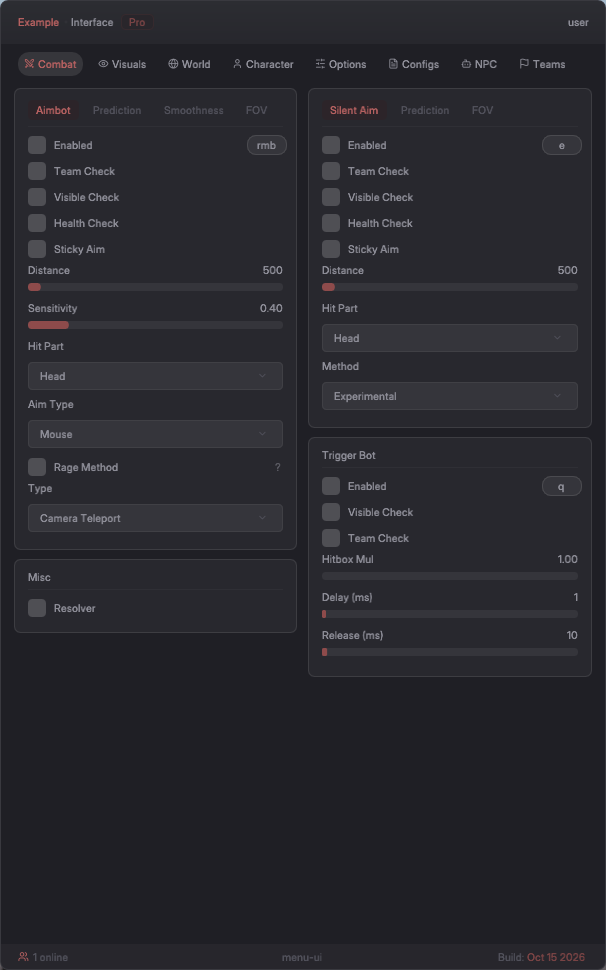
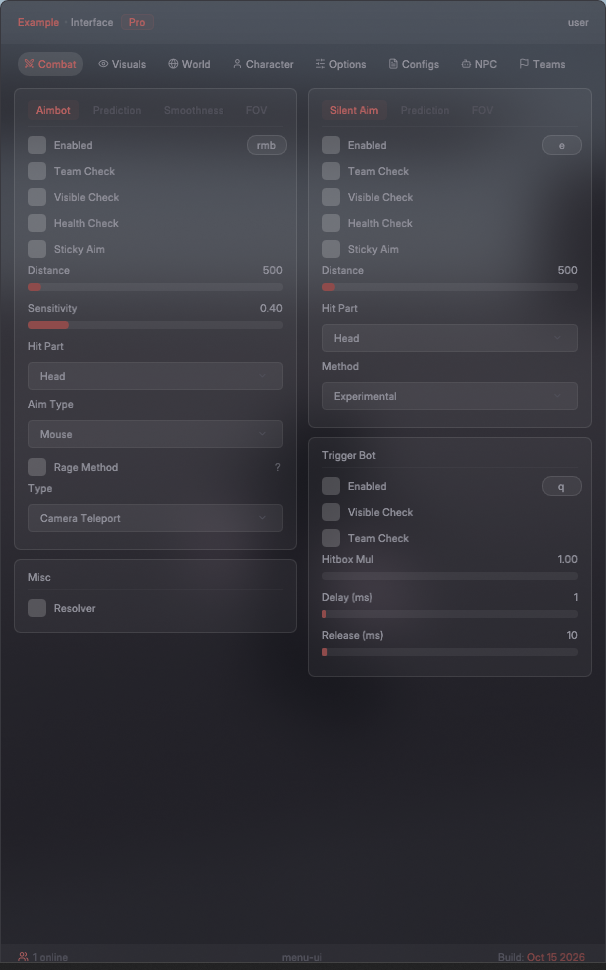
Add glass background

Changed region(s): [[0.0, 0.0, 1.0, 0.3402], [0.0, 0.9897, 1.0, 1.0]]

diff --git a/src/main.cpp b/src/main.cpp
@@ -29,13 +29,13 @@ namespace
     bool create_device(HWND hwnd)
     {
         DXGI_SWAP_CHAIN_DESC desc{};
-        desc.BufferCount = 2;
+        desc.BufferCount = 1;
         desc.BufferDesc.Format = DXGI_FORMAT_R8G8B8A8_UNORM;
         desc.BufferUsage = DXGI_USAGE_RENDER_TARGET_OUTPUT;
         desc.OutputWindow = hwnd;
         desc.SampleDesc.Count = 1;
         desc.Windowed = TRUE;
-        desc.SwapEffect = DXGI_SWAP_EFFECT_FLIP_DISCARD;
+        desc.SwapEffect = DXGI_SWAP_EFFECT_DISCARD;
 
         constexpr D3D_DRIVER_TYPE drivers[] = { D3D_DRIVER_TYPE_HARDWARE, D3D_DRIVER_TYPE_WARP };
         for (auto driver : drivers)
@@ -48,6 +48,40 @@ namespace
             }
         }
         return false;
+    }
+
+    void enable_blur(HWND hwnd)
+    {
+        struct accent_policy
+        {
+            int state;
+            int flags;
+            COLORREF color;
+            int animation;
+        };
+
+        struct composition_data
+        {
+            int attribute;
+            void* data;
+            SIZE_T size;
+        };
+
+        constexpr int blur_behind = 3;
+        constexpr int accent_attribute = 19;
+
+        using set_composition_fn = BOOL(WINAPI*)(HWND, const composition_data*);
+        auto set_composition = reinterpret_cast<set_composition_fn>(
+            GetProcAddress(GetModuleHandleW(L"user32.dll"), "SetWindowCompositionAttribute"));
+        if (!set_composition)
+            return;
+
+        MARGINS margins{ -1 };
+        DwmExtendFrameIntoClientArea(hwnd, &margins);
+
+        accent_policy accent{ blur_behind, 0, 0, 0 };
+        composition_data data{ accent_attribute, &accent, sizeof(accent) };
+        set_composition(hwnd, &data);
     }
 
     LRESULT CALLBACK wnd_proc(HWND hwnd, UINT msg, WPARAM wparam, LPARAM lparam)
@@ -131,6 +165,7 @@ int WINAPI wWinMain(HINSTANCE instance, HINSTANCE, PWSTR, int)
     COLORREF border = RGB(57, 57, 63);
     DwmSetWindowAttribute(hwnd, DWMWA_WINDOW_CORNER_PREFERENCE, &corners, sizeof(corners));
     DwmSetWindowAttribute(hwnd, DWMWA_BORDER_COLOR, &border, sizeof(border));
+    enable_blur(hwnd);
 
     if (!create_device(hwnd))
         return 1;
@@ -166,7 +201,7 @@ int WINAPI wWinMain(HINSTANCE instance, HINSTANCE, PWSTR, int)
         drag(hwnd);
 
         ImGui::Render();
-        constexpr float clear[4] = { 31 / 255.0f, 31 / 255.0f, 37 / 255.0f, 1.0f };
+        constexpr float clear[4] = {};
         context->OMSetRenderTargets(1, target.GetAddressOf(), nullptr);
         context->ClearRenderTargetView(target.Get(), clear);
         ImGui_ImplDX11_RenderDrawData(ImGui::GetDrawData());

diff --git a/src/gui.cpp b/src/gui.cpp
@@ -53,13 +53,12 @@ namespace
 
     void title_bar(ImDrawList* dl, float w)
     {
-        dl->AddRectFilledMultiColor({ 1, 1 }, { w - 1, 44 }, IM_COL32(44, 45, 50, 255), IM_COL32(44, 45, 50, 255),
-                                    IM_COL32(39, 39, 45, 255), IM_COL32(39, 39, 45, 255));
+        dl->AddRectFilledMultiColor({ 1, 1 }, { w - 1, 44 }, col::white(15), col::white(15), col::white(9), col::white(9));
 
         float x = 18;
         text(dl, { x, 15 }, col::accent, brand);
         x += width(brand);
-        dl->AddCircleFilled({ x + 6, 22 }, 1.5f, IM_COL32(48, 48, 54, 255));
+        dl->AddCircleFilled({ x + 6, 22 }, 1.5f, col::white(18));
         x += 11;
         text(dl, { x, 15 }, col::text, "Interface");
         x += width("Interface") + 7;
@@ -87,7 +86,7 @@ namespace
 
             bool active = current == i;
             if (active)
-                dl->AddRectFilled(bb.Min, bb.Max, IM_COL32(54, 54, 59, 255), 12);
+                dl->AddRectFilled(bb.Min, bb.Max, col::white(26), 12);
 
             ImU32 color = active ? col::accent : hovered ? col::bright : col::text;
             float y = bb.Min.y + (bb.GetHeight() - ImGui::GetFontSize()) * 0.5f;
@@ -99,7 +98,7 @@ namespace
 
     void footer(ImDrawList* dl, ImVec2 size)
     {
-        dl->AddRectFilled({ 1, size.y - 26 }, { size.x - 1, size.y - 1 }, IM_COL32(39, 38, 44, 255));
+        dl->AddRectFilled({ 1, size.y - 26 }, { size.x - 1, size.y - 1 }, col::white(9));
 
         float y = size.y - 20;
         text(dl, { 18, y }, col::accent, icon::users);
@@ -146,7 +145,8 @@ void gui::init()
     ImVec4* c = style.Colors;
     c[ImGuiCol_Text] = ImColor(col::text);
     c[ImGuiCol_TextDisabled] = ImColor(col::dim);
-    c[ImGuiCol_ChildBg] = c[ImGuiCol_PopupBg] = ImColor(col::panel);
+    c[ImGuiCol_ChildBg] = ImColor(col::panel);
+    c[ImGuiCol_PopupBg] = ImColor(col::popup);
     c[ImGuiCol_Border] = ImColor(col::outline);
     c[ImGuiCol_FrameBg] = c[ImGuiCol_FrameBgActive] = ImColor(col::control);
     c[ImGuiCol_FrameBgHovered] = ImColor(col::hovered);
@@ -171,6 +171,7 @@ void gui::render()
                                    | ImGuiWindowFlags_NoSavedSettings | ImGuiWindowFlags_NoBringToFrontOnFocus);
 
     ImDrawList* dl = ImGui::GetWindowDrawList();
+    dl->AddRectFilled({ 0, 0 }, size, IM_COL32(30, 30, 39, 176));
     dl->AddRect({ 0, 0 }, size, col::border);
     title_bar(dl, size.x);
     tab_bar(dl);

diff --git a/src/widgets.cpp b/src/widgets.cpp
@@ -75,7 +75,7 @@ namespace
         bool hovered, held;
         bool pressed = ImGui::ButtonBehavior(bb, id, &hovered, &held);
         if (hovered || selected)
-            w->DrawList->AddRectFilled(bb.Min, bb.Max, selected ? IM_COL32(68, 68, 75, 255) : col::hovered, 4);
+            w->DrawList->AddRectFilled(bb.Min, bb.Max, col::white(selected ? 20 : 12), 4);
 
         text(w->DrawList, { bb.Min.x + pad, centered(bb) }, selected ? col::accent : col::text, label);
         return pressed;
@@ -204,7 +204,7 @@ bool ui::checkbox(const char* label, bool& value, ImU32 color)
     if (pressed)
         value = !value;
 
-    ImU32 box = value ? col::checked : hovered ? IM_COL32(88, 88, 94, 255) : col::check;
+    ImU32 box = value ? col::checked : hovered ? col::white(57) : col::check;
     w->DrawList->AddRectFilled(pos, pos + ImVec2(18, 18), box, 4);
     text(w->DrawList, { pos.x + 26, centered(bb) }, color, label);
     return pressed;
@@ -320,7 +320,7 @@ bool ui::button(const char* label, float width, float height)
     bool pressed = ImGui::ButtonBehavior(bb, id, &hovered, &held);
 
     ImDrawList* dl = w->DrawList;
-    frame(dl, bb, held ? col::control : hovered ? col::hovered : IM_COL32(54, 54, 59, 255), col::outline);
+    frame(dl, bb, held ? col::control : hovered ? col::hovered : col::button, col::white(10));
     text(dl, { bb.GetCenter().x - text_width(label) * 0.5f, centered(bb) }, hovered ? col::bright : col::text, label);
     return pressed;
 }
@@ -457,7 +457,7 @@ void ui::keybind(ImGuiKey& key)
         }
     }
 
-    frame(w->DrawList, bb, hovered ? col::hovered : col::control, IM_COL32(74, 74, 79, 255), 10);
+    frame(w->DrawList, bb, hovered ? col::hovered : col::control, col::white(27), 10);
     text(w->DrawList, { bb.GetCenter().x - text_width(name) * 0.5f, centered(bb) }, waiting ? col::accent : col::text, name);
 }
 
@@ -529,6 +529,6 @@ void ui::value(const char* str, ImU32 color)
 void ui::draw_badge(ImDrawList* dl, ImVec2 pos, const char* str)
 {
     ImRect bb(pos, pos + ImVec2(text_width(str) + 16, 16));
-    frame(dl, bb, IM_COL32(41, 38, 43, 255), IM_COL32(54, 42, 46, 255));
-    text(dl, { bb.Min.x + 8, centered(bb) }, col::accent_dim, str);
+    frame(dl, bb, col::tint, IM_COL32(181, 96, 96, 32));
+    text(dl, { bb.Min.x + 8, centered(bb) }, col::accent, str);
 }

diff --git a/src/widgets.h b/src/widgets.h
@@ -8,15 +8,21 @@
 
 namespace col
 {
-    constexpr ImU32 window      = IM_COL32(31, 31, 37, 255);
-    constexpr ImU32 border      = IM_COL32(57, 57, 63, 255);
-    constexpr ImU32 panel       = IM_COL32(40, 40, 46, 255);
-    constexpr ImU32 outline     = IM_COL32(61, 61, 66, 255);
-    constexpr ImU32 divider     = IM_COL32(47, 47, 53, 255);
-    constexpr ImU32 control     = IM_COL32(53, 53, 59, 255);
-    constexpr ImU32 hovered     = IM_COL32(60, 60, 67, 255);
-    constexpr ImU32 frame       = IM_COL32(64, 64, 69, 255);
-    constexpr ImU32 check       = IM_COL32(79, 79, 84, 255);
+    constexpr ImU32 white(int alpha)
+    {
+        return IM_COL32(255, 255, 255, alpha);
+    }
+
+    constexpr ImU32 border      = white(30);
+    constexpr ImU32 panel       = white(10);
+    constexpr ImU32 outline     = white(25);
+    constexpr ImU32 divider     = white(8);
+    constexpr ImU32 control     = white(15);
+    constexpr ImU32 button      = white(17);
+    constexpr ImU32 hovered     = white(24);
+    constexpr ImU32 frame       = white(14);
+    constexpr ImU32 check       = white(46);
+    constexpr ImU32 popup       = IM_COL32(40, 40, 46, 255);
     constexpr ImU32 checked     = IM_COL32(165, 93, 94, 255);
     constexpr ImU32 fill        = IM_COL32(142, 75, 75, 255);
     constexpr ImU32 text        = IM_COL32(140, 140, 150, 255);
@@ -25,7 +31,7 @@ namespace col
     constexpr ImU32 faint       = IM_COL32(89, 89, 97, 255);
     constexpr ImU32 accent      = IM_COL32(181, 96, 96, 255);
     constexpr ImU32 accent_dim  = IM_COL32(120, 67, 68, 255);
-    constexpr ImU32 tint        = IM_COL32(44, 36, 41, 255);
+    constexpr ImU32 tint        = IM_COL32(181, 96, 96, 18);
     constexpr ImU32 yellow      = IM_COL32(181, 150, 57, 255);
     constexpr ImU32 red         = IM_COL32(195, 75, 75, 255);
     constexpr ImU32 green       = IM_COL32(83, 153, 98, 255);

diff --git a/README.md b/README.md
@@ -7,6 +7,8 @@ Unofficial recreation of the Matcha menu UI, made with Dear ImGui and DirectX 11
 
 It's only the UI. None of the options do anything.
 
+The background is a live blur of whatever is behind the window, using the Windows compositor (Windows 10 and 11).
+
 ## Building
 
 You need Windows, Visual Studio 2022 and CMake 3.20 or newer. Everything else is in `external/`.
